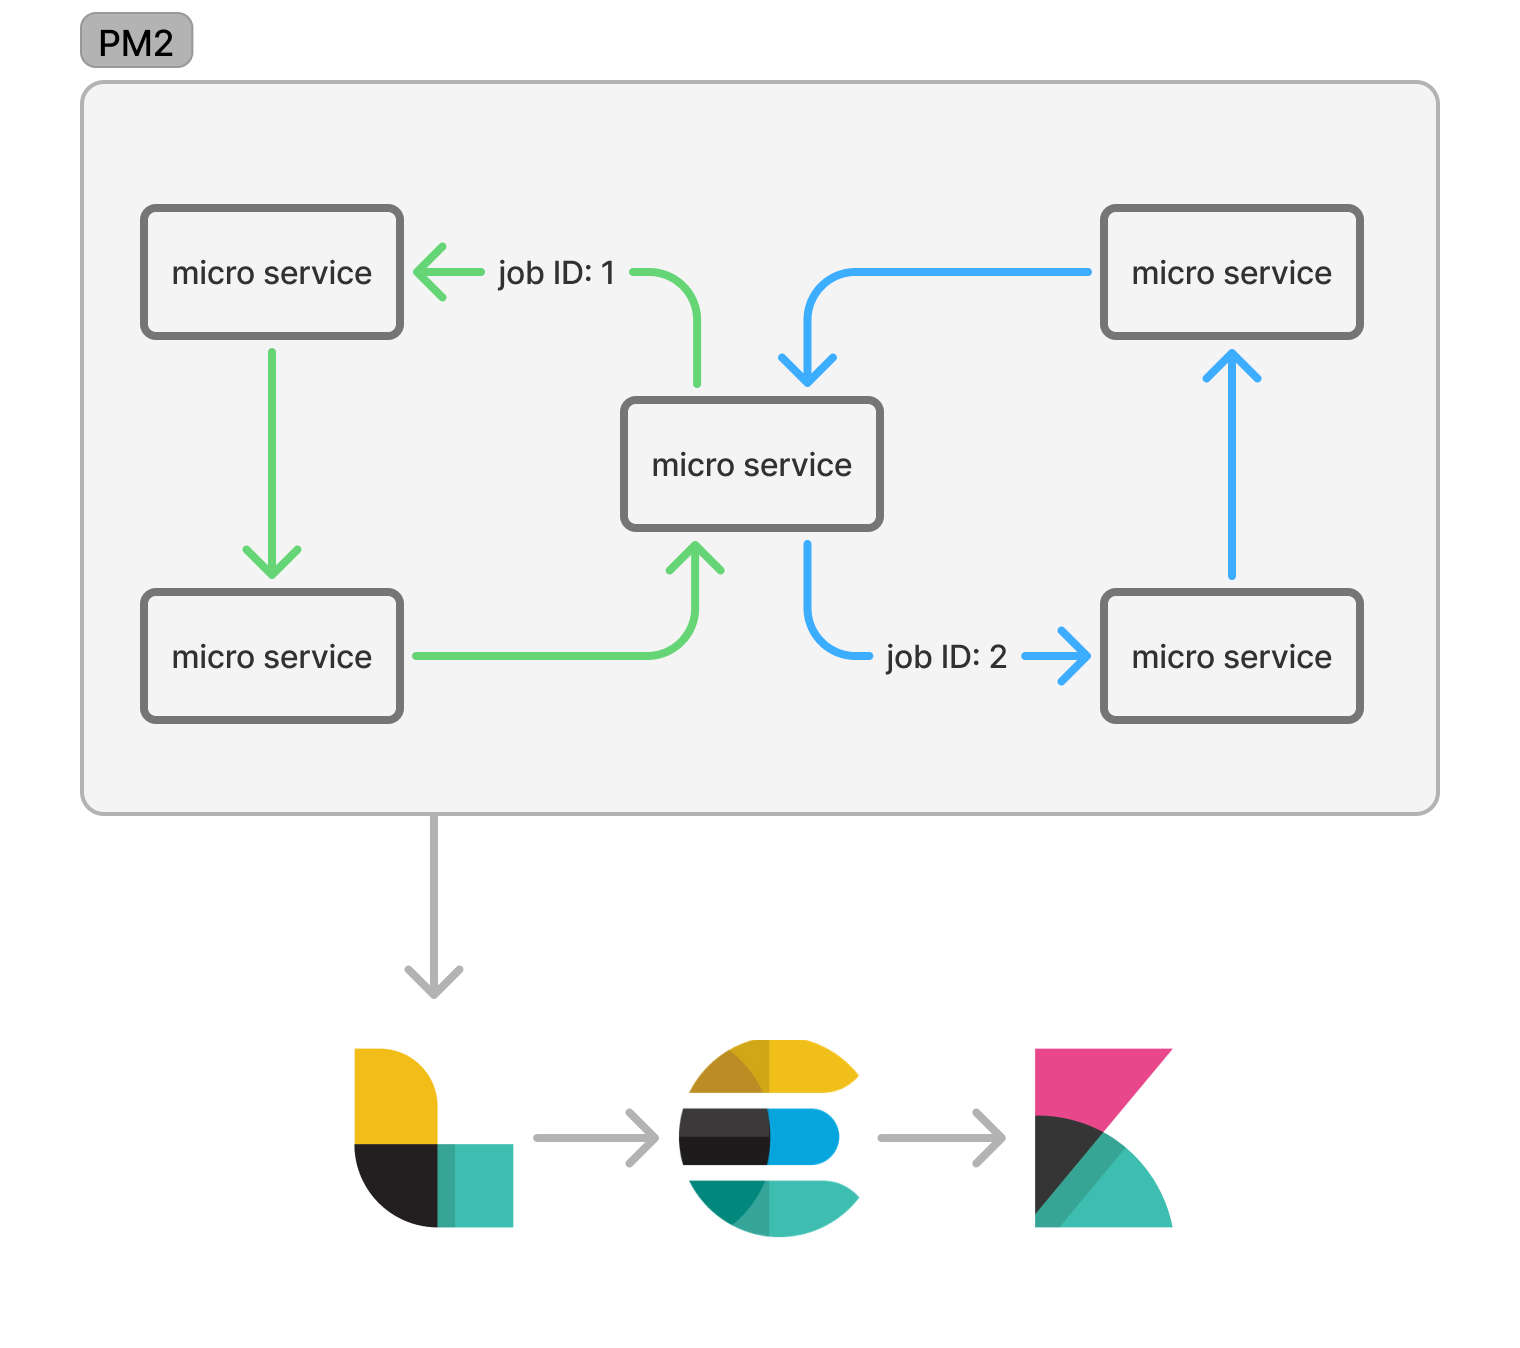
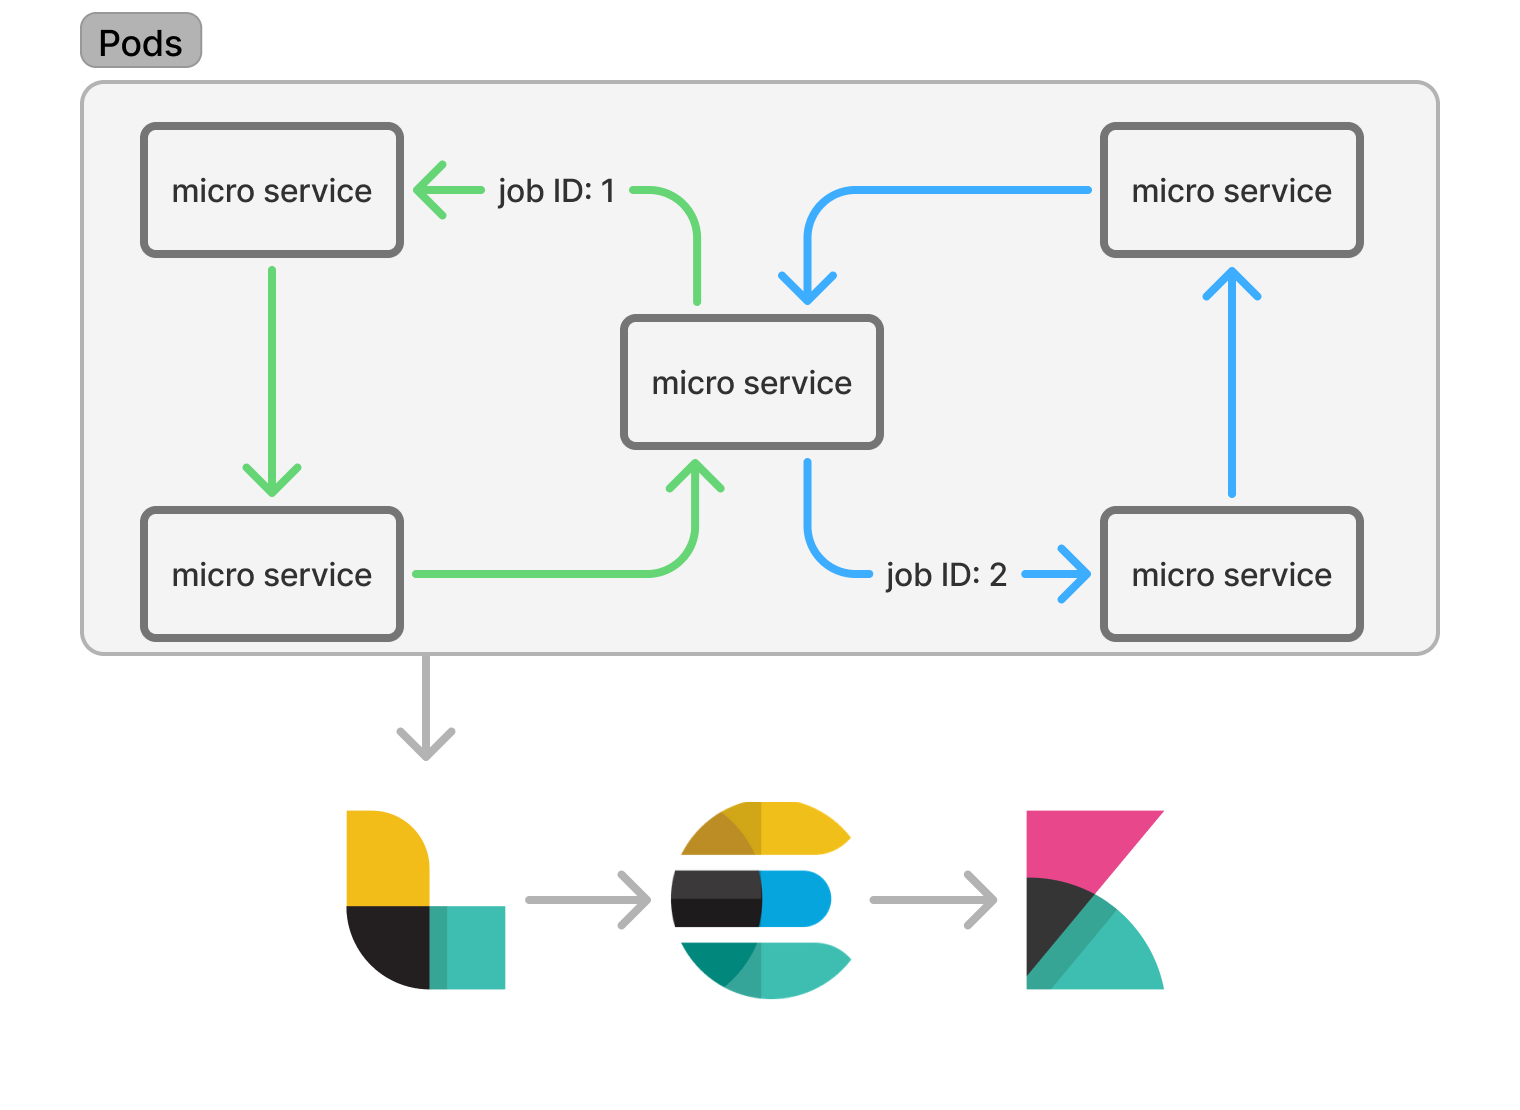
feat: update GitHub link and enhance Kubernetes section in documentation

Changed region(s): [[0.0618, 0.3369, 0.9586, 0.9189], [0.0309, 0.0, 0.9586, 0.3063]]

diff --git a/index.html b/index.html
@@ -2115,7 +2115,7 @@ default ✓ [======================================] 000/800 VUs  29m0s</code></
                             <ul>
                                 <li>
                                     <a
-                                        href="https://github.com/daechan-jo/auto-store"
+                                        href="https://github.com/orgs/hush-mart/repositories"
                                         >GitHub</a
                                     >
                                 </li>
@@ -2204,6 +2204,89 @@ default ✓ [======================================] 000/800 VUs  29m0s</code></
                     <div class="content-block">
                         <h2 id="아키텍처2">아키텍처 및 설계</h2>
                         <div class="sub-block">
+                            <h3 id="kub">Kubernetes</h3>
+                            <img
+                                src="./image/kube.png"
+                                alt=""
+                                onclick="window.open(this.src)"
+                            />
+                            <br />
+                            <p>
+                                <b><u>CI/CD</u></b>
+                            </p>
+                            <p>
+                                GitHub Actions과 kubernetes만을 활용하여 코드
+                                변경부터 배포까지 전 과정을 자동화했습니다.
+                                코드를 main 브랜치에 병합하면 자동으로 테스트,
+                                빌드, 이미지 생성 및 배포 단계가 실행됩니다.
+                                TypeScript 코드의 정적 분석을 통과한 후에만
+                                Docker 이미지를 빌드하고 레지스트리에 푸시하도록
+                                설계했습니다. 이를 통해 개발 생산성을 크게
+                                향상시키고 인적 오류 가능성을 최소화 합니다.
+                            </p>
+                            <br />
+                            <p>
+                                <b><u>선언적 인프라 관리</u></b>
+                            </p>
+                            <p>
+                                쿠버네티스 매니페스트를 통해 인프라를 코드로
+                                관리하여 버전 관리 및 변경 추적이 가능하도록
+                                구현했습니다. Deployment, Service, ConfigMap,
+                                Secret 등의 리소스를 YAML 파일로 정의하고 GitOps
+                                방식으로 관리함으로써 인프라 변경사항을 코드
+                                리뷰 프로세스와 동일하게 검토할 수 있게
+                                되었습니다. NestJS 애플리케이션의 각
+                                마이크로서비스별로 분리된 매니페스트를 관리하여
+                                서비스 간 의존성을 명확히 하고, 환경 변수와
+                                시크릿을 효율적으로 주입하는 패턴을
+                                적용했습니다.
+                            </p>
+                            <br />
+                            <p>
+                                <b><u>롤링 업데이트 전략</u></b>
+                            </p>
+                            <p>
+                                서비스 중단 없이 새 버전을 배포할 수 있는 롤링
+                                업데이트 전략을 구현했습니다. 쿠버네티스
+                                Deployment에 maxSurge와 maxUnavailable
+                                파라미터를 최적화하여 배포 중에도 서비스
+                                가용성을 유지하도록 설정했습니다. 또한 Readiness
+                                Probe와 Liveness Probe를 세심하게 구성하여
+                                트래픽이 정상 작동 중인 컨테이너로만
+                                라우팅되도록 보장했습니다.
+                            </p>
+                            <br />
+                            <p>
+                                <b><u>자동 스케일링</u></b>
+                            </p>
+                            <p>
+                                HPA(Horizontal Pod Autoscaler)를 구성하여
+                                트래픽과 리소스 사용량에 따라 컨테이너 수를
+                                동적으로 조절하도록 설계했습니다. CPU 사용률,
+                                메모리 사용량, 초당 요청 수 등 다양한 메트릭을
+                                기반으로 스케일링 임계값을 설정하여 리소스
+                                사용량이 급증하는 작업에 동적으로 컨테이너 수를
+                                조절할 수 있도록 구성했습니다.
+                            </p>
+                            <br />
+                            <p>
+                                <b><u>트래픽 관리</u></b>
+                            </p>
+                            <p>
+                                NGINX Ingress Controller를 도입하여 외부
+                                트래픽을 마이크로서비스로 라우팅하는 기본적인
+                                시스템을 구축했습니다. 클러스터 외부에서
+                                들어오는 HTTP/HTTPS 요청을 적절한 내부 서비스와
+                                파드로 연결해주는 진입점 역할을 담당합니다.
+                                간단한 경로 기반 라우팅 규칙을 설정하여 마이크로
+                                서비스 중 API-gateway 역할 파드로 라우팅합니다.
+                                이를 통해 클라이언트가 단일 진입점으로
+                                접근하면서도 내부적으로는 분산된 마이크로서비스
+                                아키텍처의 이점을 활용합니다.
+                            </p>
+                        </div>
+                        <br />
+                        <div class="sub-block">
                             <h3 id="msa">MSA</h3>
                             <img
                                 src="./image/msa.png"
@@ -2216,7 +2299,7 @@ default ✓ [======================================] 000/800 VUs  29m0s</code></
                                 설계되었습니다. 기능별로 분리된 여러 개의
                                 독립적인 서비스들이 상호작용하여 운영됩니다. 각
                                 서비스는 RabbitMQ 기반의 비동기 메시지 큐를
-                                활용하여 통신하며 스크래핑 및 API 요청 처리
+                                활용하여 통신하며 크롤링 및 API 요청 처리
                                 서비스와 연동됩니다.
                             </p>
                             <br />
@@ -2868,7 +2951,7 @@ if (newBasePrice < minAllowedPrice || newBasePrice < 7000 || newBasePrice > 1000
                                 대량의 데이터를 한 번에 조회 및 가공하는
                                 과정에서 Node.js 프로세스가 허용하는 힙 메모리
                                 한도를 초과하는 경우가 종종 발생했습니다. 리소스
-                                누수를 방지하기 위해 웹 스크래핑 데이터를
+                                누수를 방지하기 위해 크롤링 데이터를
                                 데이터베이스에 임시로 저장하고 있었지만, 특정
                                 시점에 대량의 레코드를 한꺼번에 조회해서 처리를
                                 시도하는 과정에 메모리가 급격히 상승한 것이
@@ -2881,9 +2964,9 @@ if (newBasePrice < minAllowedPrice || newBasePrice < 7000 || newBasePrice > 1000
                                     할당 및 가공
                                 </li>
                                 <li>
-                                    NodeJS는 기본적으로 1~2GB 가량의고 힙
-                                    메모리를 사용하도록 제한되어 있어 대규모
-                                    데이터를 한꺼번에 처리할경우 가바지 콜렉션이
+                                    NodeJS는 기본적으로 1~2GB 가량의 힙 메모리를
+                                    사용하도록 제한되어 있어 대규모 데이터를
+                                    한꺼번에 처리할경우 가비지 콜렉션이
                                     잦아지면서 힙 한도를 초과하게됩니다.
                                 </li>
                                 <li>
@@ -2896,6 +2979,7 @@ if (newBasePrice < minAllowedPrice || newBasePrice < 7000 || newBasePrice > 1000
                             <br />
                             <p>
                                 이를 해결하기 위해, 기존에 적용했던 분산처리에
+                                todo..
                             </p>
                         </div>
                         <div class="sub-block">
@@ -2907,14 +2991,13 @@ if (newBasePrice < minAllowedPrice || newBasePrice < 7000 || newBasePrice > 1000
                             />
                             <br />
                             <p>
-                                기존에는 PM2로 여러 마이크로서비스를 실행하면서
-                                각 서비스별로 생성되는 로그파일을 직접 확인해야
-                                했습니다. 하지만 이러한 방식은 이슈가 발생했을
-                                때 해당 시간을 기준으로 각 서비스에서 발생한
-                                로그를 일일이 찾아야 했고, 서비스 간 메시지를
-                                주고받으며 동작하는 구조상 하나의 작업이 여러
-                                서비스로 전파되기 대문에 전체 흐름을 파악하기가
-                                까다로웠습니다.
+                                기존에는 각 서비스별로 생성되는 로그파일을 직접
+                                확인해야 했습니다. 하지만 이러한 방식은 이슈가
+                                발생했을 때 해당 시간을 기준으로 각 서비스에서
+                                발생한 로그를 일일이 찾아야 했고, 서비스 간
+                                메시지를 주고받으며 동작하는 구조상 하나의
+                                작업이 여러 서비스로 전파되기 대문에 전체 흐름을
+                                파악하기가 까다로웠습니다.
                             </p>
                             <br />
                             <img
@@ -2940,10 +3023,10 @@ if (newBasePrice < minAllowedPrice || newBasePrice < 7000 || newBasePrice > 1000
                                 <li>
                                     <p><b>ELK Stack</b></p>
                                     <p>
-                                        PM2가 수집한 로그 데이터를 Logstash를
-                                        통해 Elasticasearch에 저장하고, Kibana를
-                                        통해 시각화하도록 구성했습니다. 이를
-                                        통해 MSA환경에서 발생하는 로그를
+                                        수집한 로그 데이터를 Fluent Bit를 통해
+                                        Elasticasearch에 저장하고, Kibana를 통해
+                                        시각화하도록 구성했습니다. 이를 통해
+                                        MSA환경에서 발생하는 로그를
                                         중앙집중식으로 관리하며 서비스 간 메시지
                                         전달 과정에서 발생하는 이슈를 실시간으로
                                         모니터링하고 이슈 발생 시 해당 시점의
@@ -3210,6 +3293,7 @@ if (newBasePrice < minAllowedPrice || newBasePrice < 7000 || newBasePrice > 1000
             <br>
             <li><a href="아키텍처2" class="toc-main">아키텍처 및 설계</a></li>
             <ul>
+            		<li><a href="#kube" class="toc-sub">Kubernetes</a></li>
                 <li><a href="#msa" class="toc-sub">MSA</a></li>
                 <li><a href="#메시지처리" class="toc-sub">메시지 처리 아키텍처</a></li>
             </ul>
